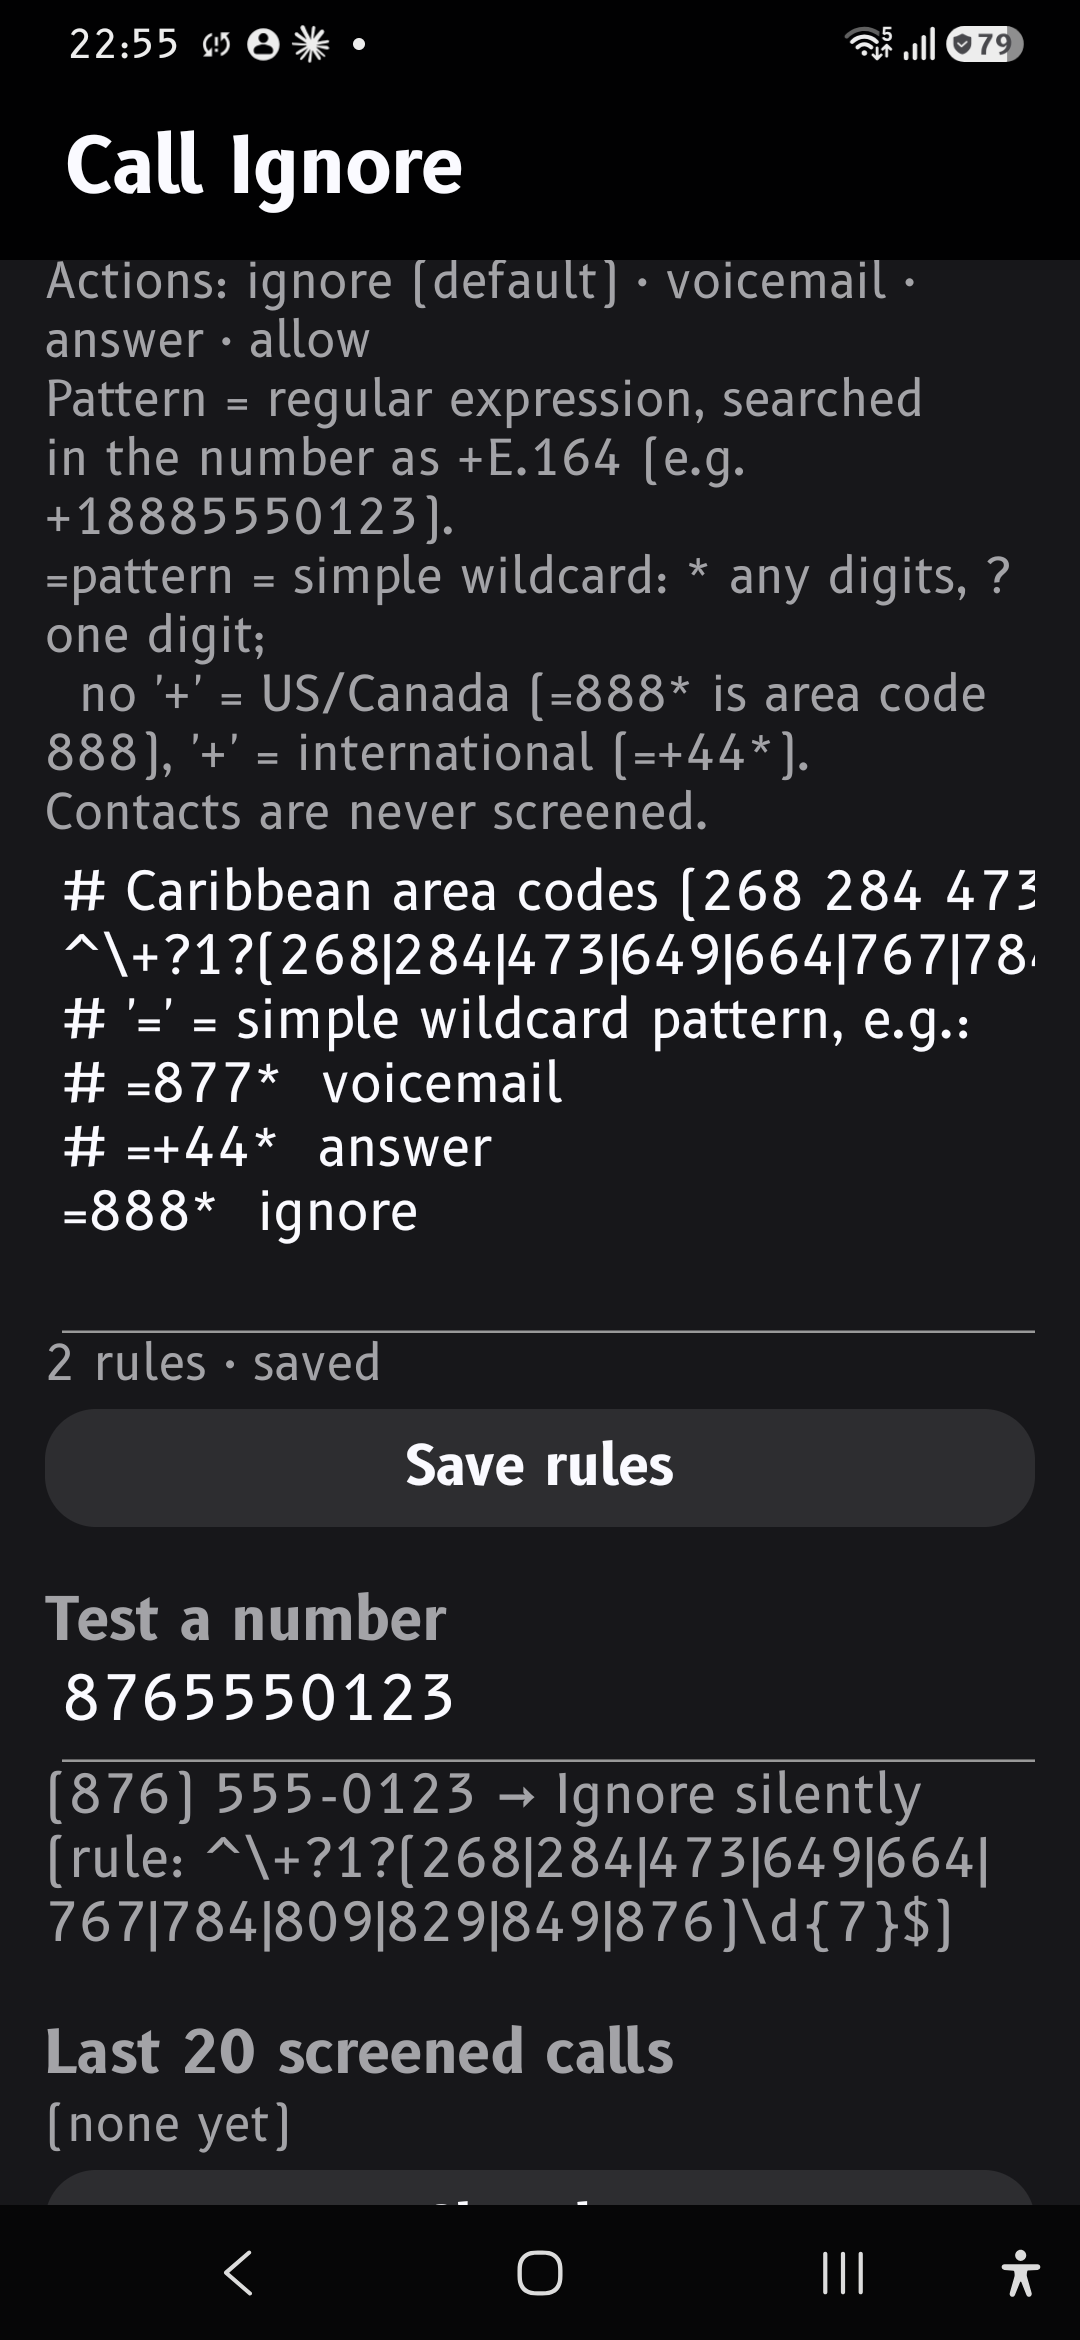
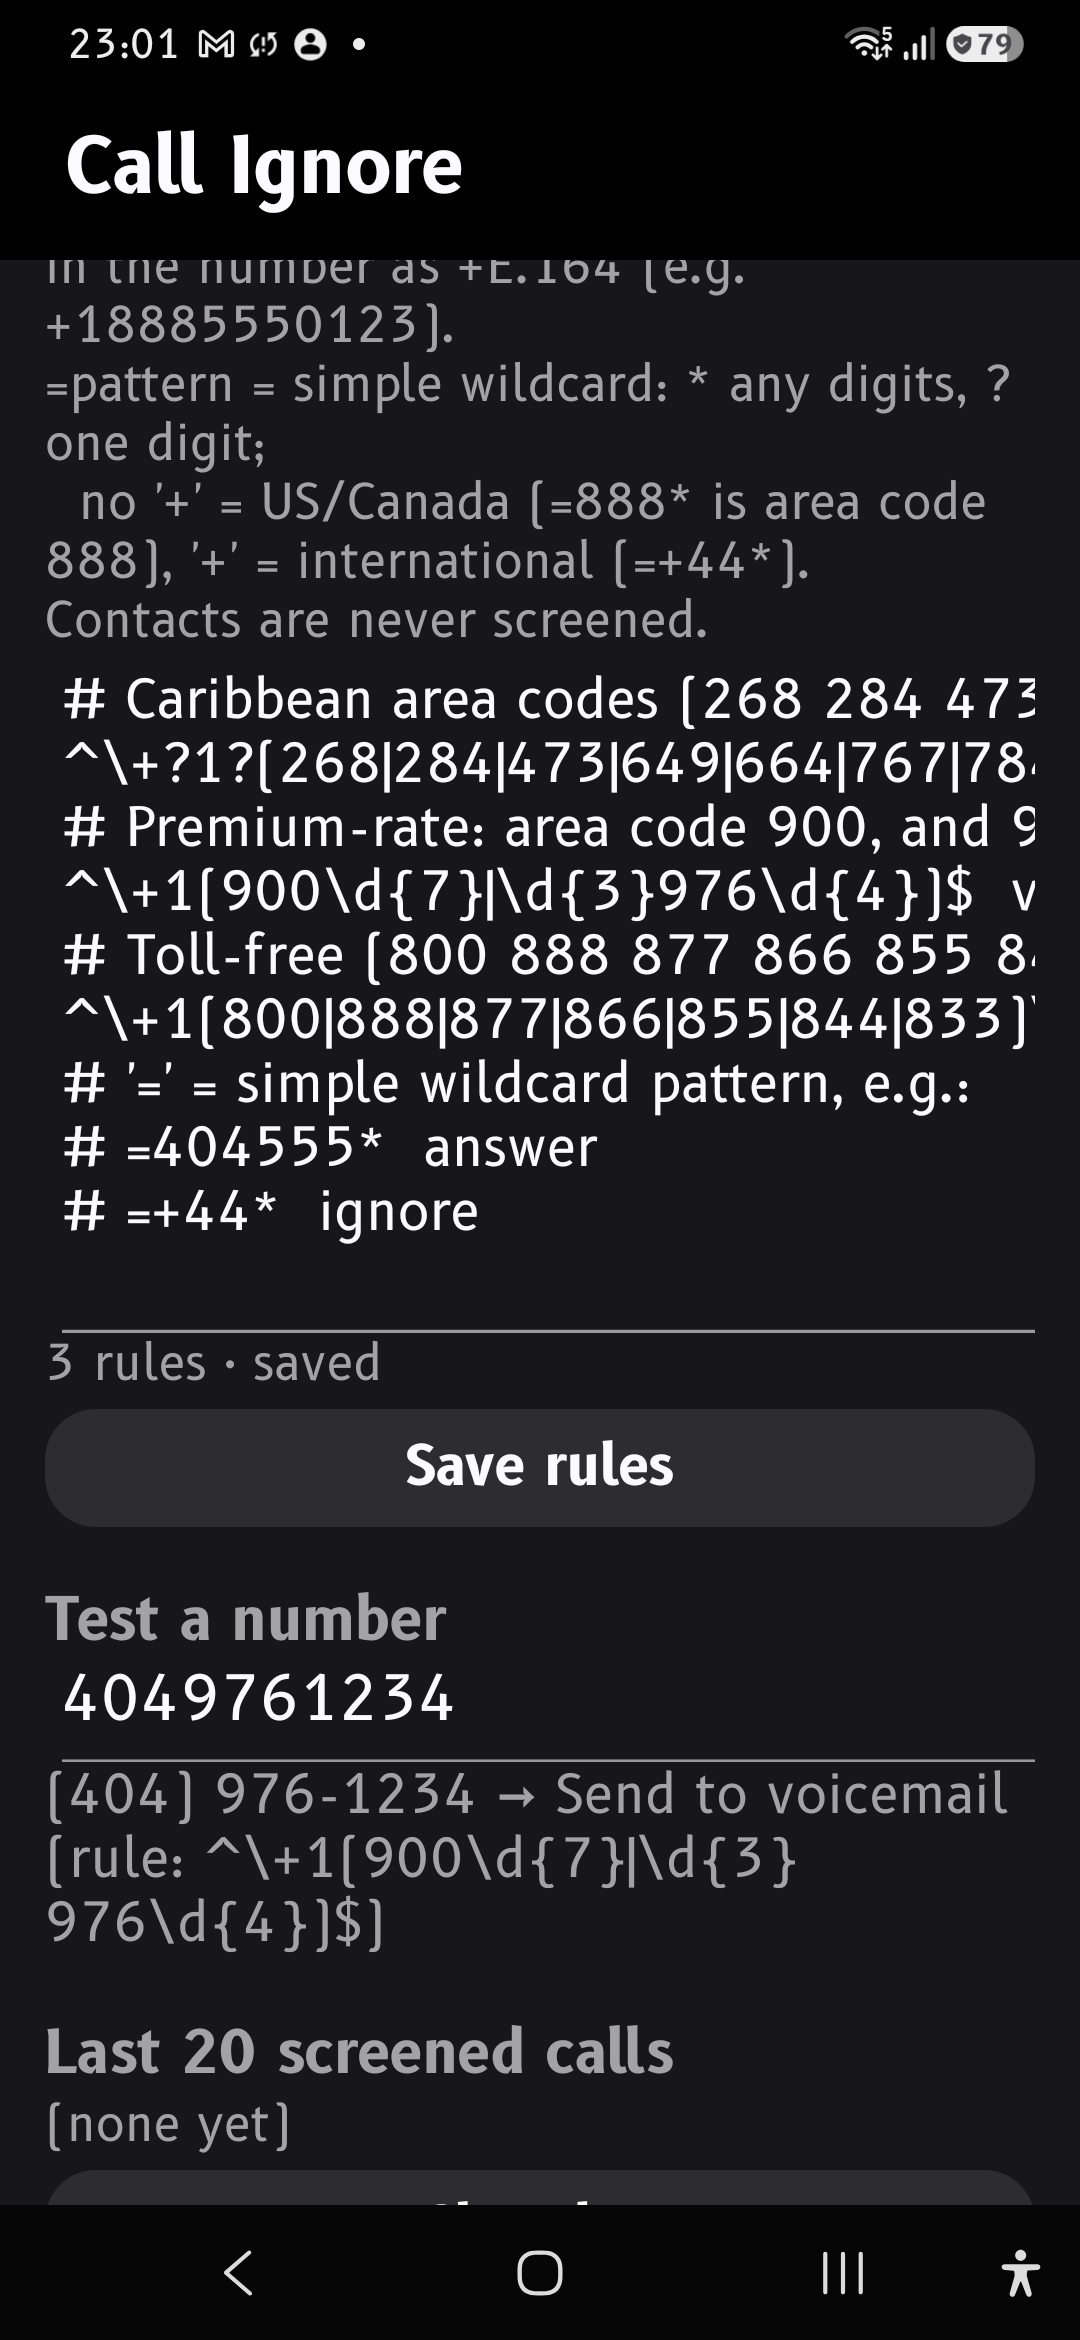
Call Ignore 1.3: preload premium-rate and toll-free voicemail rules
Default rules now send area code 900, 976 exchanges in any area code,
and NANP toll-free numbers (800 888 877 866 855 844 833) straight to
voicemail. The old "=888* ignore" example is dropped, since it would
have pre-empted the toll-free rule.

A saved rule list that still equals an earlier default is upgraded to
the current defaults; edited lists are left alone.

Claude-Session: https://claude.ai/code/session_01PJNMLNsMDP1d1zzKHf4YGs

diff --git a/app/src/main/java/io/github/rowsail/callignore/Store.java b/app/src/main/java/io/github/rowsail/callignore/Store.java
@@ -17,10 +17,13 @@ final class Store {
     private static final String DEFAULT_RULES =
             "# Caribbean area codes (268 284 473 649 664 767 784 809 829 849 876): \"one-ring\" call-back scams\n"
             + "^\\+?1?(268|284|473|649|664|767|784|809|829|849|876)\\d{7}$  ignore\n"
+            + "# Premium-rate: area code 900, and 976 local exchanges in any area code\n"
+            + "^\\+1(900\\d{7}|\\d{3}976\\d{4})$  voicemail\n"
+            + "# Toll-free (800 888 877 866 855 844 833)\n"
+            + "^\\+1(800|888|877|866|855|844|833)\\d{7}$  voicemail\n"
             + "# '=' = simple wildcard pattern, e.g.:\n"
-            + "# =877*  voicemail\n"
-            + "# =+44*  answer\n"
-            + "=888*  ignore\n";
+            + "# =404555*  answer\n"
+            + "# =+44*  ignore\n";
 
     /**
      * Rule syntax version. 1: wildcard patterns bare (and briefly /regex/ in slashes);
@@ -36,6 +39,16 @@ final class Store {
                     + "# 404555????     = ? is one digit\n"
                     + "888*  ignore\n",
     };
+    /** Earlier format-2 default lists; a saved list still equal to one was never edited, so it's upgraded. */
+    private static final String[] V2_DEFAULTS = {
+            // 1.2
+            "# Caribbean area codes (268 284 473 649 664 767 784 809 829 849 876): \"one-ring\" call-back scams\n"
+                    + "^\\+?1?(268|284|473|649|664|767|784|809|829|849|876)\\d{7}$  ignore\n"
+                    + "# '=' = simple wildcard pattern, e.g.:\n"
+                    + "# =877*  voicemail\n"
+                    + "# =+44*  answer\n"
+                    + "=888*  ignore\n",
+    };
 
     private final SharedPreferences p;
 
@@ -49,10 +62,14 @@ final class Store {
     String rules() {
         String saved = p.getString("rules", null);
         if (saved == null) return DEFAULT_RULES;
-        if (p.getInt("rulesFormat", 1) < RULES_FORMAT) {
-            saved = migrateV1(saved);
-            setRules(saved);
-        }
+        String upgraded = p.getInt("rulesFormat", 1) < RULES_FORMAT ? migrateV1(saved) : upgradeDefaults(saved);
+        if (!upgraded.equals(saved)) setRules(upgraded);
+        return upgraded;
+    }
+
+    /** An untouched earlier default list becomes the current one; anything the user edited is kept as is. */
+    static String upgradeDefaults(String saved) {
+        for (String d : V2_DEFAULTS) if (d.equals(saved)) return DEFAULT_RULES;
         return saved;
     }
 

diff --git a/app/src/test/java/io/github/rowsail/callignore/RulesTest.java b/app/src/test/java/io/github/rowsail/callignore/RulesTest.java
@@ -138,8 +138,39 @@ public class RulesTest {
         assertEquals(d.errors.toString(), 0, d.errors.size());
         assertEquals(d.warnings.toString(), 0, d.warnings.size());
         expect(d, "+18765550123", Rules.Action.IGNORE, CARIBBEAN);
-        expect(d, "8885550123", Rules.Action.IGNORE, "=888*");
         expect(d, "+14045550123", Rules.Action.ALLOW, null);
+    }
+
+    private static final String PREMIUM = "^\\+1(900\\d{7}|\\d{3}976\\d{4})$";
+    private static final String TOLL_FREE = "^\\+1(800|888|877|866|855|844|833)\\d{7}$";
+
+    @Test public void defaultPremiumRateToVoicemail() {
+        Rules d = Rules.parse(defaultRules());
+        expect(d, "9005550123", Rules.Action.VOICEMAIL, PREMIUM);            // area code 900
+        expect(d, "+1 404 976 1234", Rules.Action.VOICEMAIL, PREMIUM);       // 976 exchange, any area code
+        expect(d, "(212) 976-0000", Rules.Action.VOICEMAIL, PREMIUM);
+        expect(d, "+14045559760", Rules.Action.ALLOW, null);                 // 976 elsewhere in the number
+        expect(d, "+19765550123", Rules.Action.ALLOW, null);                 // 976 as an area code isn't premium
+    }
+
+    @Test public void defaultTollFreeToVoicemail() {
+        Rules d = Rules.parse(defaultRules());
+        for (String code : new String[]{"800", "888", "877", "866", "855", "844", "833"})
+            expect(d, code + "5550123", Rules.Action.VOICEMAIL, TOLL_FREE);
+        expect(d, "+18225550123", Rules.Action.ALLOW, null);                 // 822 is reserved, not in the list
+        expect(d, "+448005550123", Rules.Action.ALLOW, null);                // UK 0800 isn't NANP toll-free
+    }
+
+    @Test public void untouchedEarlierDefaultsAreUpgraded() {
+        String v12 = "# Caribbean area codes (268 284 473 649 664 767 784 809 829 849 876): \"one-ring\" call-back scams\n"
+                + "^\\+?1?(268|284|473|649|664|767|784|809|829|849|876)\\d{7}$  ignore\n"
+                + "# '=' = simple wildcard pattern, e.g.:\n"
+                + "# =877*  voicemail\n"
+                + "# =+44*  answer\n"
+                + "=888*  ignore\n";
+        assertEquals(defaultRules(), Store.upgradeDefaults(v12));
+        assertEquals(v12 + "=404*\n", Store.upgradeDefaults(v12 + "=404*\n"));  // edited: left alone
+        assertEquals(defaultRules(), Store.upgradeDefaults(defaultRules()));
     }
 
     @Test public void migrationFromFormat1() {

diff --git a/MANUAL.md b/MANUAL.md
@@ -1,6 +1,6 @@
 # Call Ignore — Technical Manual
 
-Version 1.2 (versionCode 3) · package `io.github.rowsail.callignore` · Android 10 (API 29) and later, built against API 36
+Version 1.3 (versionCode 4) · package `io.github.rowsail.callignore` · Android 10 (API 29) and later, built against API 36
 
 Call Ignore screens incoming phone calls against a user-editable list of number patterns. For each match it can let the call ring, ignore it silently, send it to voicemail, or answer it and hang up immediately. It is free software (GPL-3.0-or-later), built with Gradle, and it has no network access. Source: https://github.com/rowsail/CallIgnore
 
@@ -89,13 +89,22 @@ A new install starts with:
 ```
 # Caribbean area codes (268 284 473 649 664 767 784 809 829 849 876): "one-ring" call-back scams
 ^\+?1?(268|284|473|649|664|767|784|809|829|849|876)\d{7}$  ignore
+# Premium-rate: area code 900, and 976 local exchanges in any area code
+^\+1(900\d{7}|\d{3}976\d{4})$  voicemail
+# Toll-free (800 888 877 866 855 844 833)
+^\+1(800|888|877|866|855|844|833)\d{7}$  voicemail
 # '=' = simple wildcard pattern, e.g.:
-# =877*  voicemail
-# =+44*  answer
-=888*  ignore
+# =404555*  answer
+# =+44*  ignore
 ```
 
-The first rule ignores calls from Caribbean NANP area codes, the usual source of "one-ring" scams that try to get you to call back an expensive number. See the note on optional country codes below.
+| Rule | Catches | Action | Notes |
+|---|---|---|---|
+| Caribbean | NANP area codes 268, 284, 473, 649, 664, 767, 784, 809, 829, 849, 876 | ignore | The usual source of "one-ring" scams that try to get you to call back an expensive number. See the note on optional country codes below. |
+| Premium-rate | Area code **900**, and exchange **976** in *any* area code (`(404) 976-1234`) | voicemail | 976 was the old local pay-per-call exchange, not an area code. Some areas have since reused 976 as an ordinary exchange, so a few normal local numbers will also go to voicemail. Add an `allow` rule above it for any you need. |
+| Toll-free | NANP toll-free codes 800, 888, 877, 866, 855, 844, 833 | voicemail | Businesses, including banks, pharmacies and delivery firms, often call from toll-free numbers. Voicemail lets them leave a message. Put an `allow` rule above this one for any you want to ring through, e.g. `=8005551234 allow`. |
+
+When rules are upgraded, an earlier default list that was **never edited** is replaced by the current one. Lists you've changed are left exactly as they are.
 
 ### Regular-expression rules
 
@@ -173,7 +182,7 @@ Regex rules see `+` followed by the result. NANP wildcard rules see the last 10 
 ### Upgrading from 1.1
 
 Version 1.1 had only wildcard rules, written without `=`. On the first start after upgrading, saved rules are converted automatically (rule format 2):
-- **Unchanged defaults:** if the saved rules are exactly the old default list, they're replaced by the new preloaded list.
+- **Unchanged defaults:** if the saved rules are exactly the old default list, they're replaced by the new preloaded list. The same happens on later upgrades: an untouched 1.2 default list becomes the 1.3 one.
 - **Your own rules:** every rule line gets an `=` prefix, so it keeps its meaning. Comments and blank lines are kept.
 
 ---
@@ -340,13 +349,13 @@ Build and `adb install -r` again. The role, permissions and settings survive upd
 
 ### Automated (off-device)
 
-`app/src/test/java/io/github/rowsail/callignore/RulesTest.java` (18 JUnit 4 tests) covers:
+`app/src/test/java/io/github/rowsail/callignore/RulesTest.java` (21 JUnit 4 tests) covers:
 - **Wildcards:** NANP numbers in several formats, leading-`1` patterns, separators, international `+` patterns, `011` dialling, suffix wildcards, whole-number matching, and `+888…` not being treated as NANP
 - **Regexes:** the preloaded Caribbean rule (including its optional-`1` pitfall) and the strict alternative; find semantics; `#`, `/` and spaces inside a regex
 - **Ordering:** first match wins across both kinds of rule
 - **Errors and warnings:** invalid wildcards and regexes, wildcard-looking regexes, and the `=` hint
 - **Comments:** comment parsing
-- **Defaults and migration:** the preloaded rules parse with no errors or warnings, and the 1.1 → 1.2 rule migration works
+- **Defaults and migration:** the preloaded rules parse with no errors or warnings; 900 and 976-exchange numbers and all seven toll-free codes go to voicemail, and near misses don't; the 1.1 → 1.2 migration works; untouched earlier default lists are upgraded and edited ones aren't
 - **Display:** number formatting
 
 Run them with `./gradlew test`. The report is written to `app/build/reports/tests/`.
@@ -374,7 +383,7 @@ adb logcat -s CallIgnore
 | `endCall -> true` | The connected call was hung up |
 | `gave up: call never rang` / `never connected` | The answer loop timed out after 5 s |
 
-**Verification status (version 1.2):** the matching rules pass all automated tests. The app installs, holds the role, has both permissions and runs its screen without errors. The call-handling paths above haven't yet been tried with a real incoming call. `acceptRingingCall()` and `endCall()` are deprecated (since API 29), so the `answer` test (step 3) is the one most worth running on each new Android version.
+**Verification status (version 1.3):** the matching rules pass all automated tests. The app installs, holds the role, has both permissions and runs its screen without errors. The call-handling paths above haven't yet been tried with a real incoming call. `acceptRingingCall()` and `endCall()` are deprecated (since API 29), so the `answer` test (step 3) is the one most worth running on each new Android version.
 
 ---
 

diff --git a/README.md b/README.md
@@ -12,12 +12,14 @@ An Android app that screens incoming calls against number patterns you write you
 Each rule is a **regular expression**, tested against the number in `+E.164` form, or, with a leading `=`, a simple **wildcard** pattern:
 
 ```
+=8005551234 allow    # exceptions go first: the first matching rule wins
 # Caribbean area codes: "one-ring" call-back scams (preloaded)
 ^\+?1?(268|284|473|649|664|767|784|809|829|849|876)\d{7}$  ignore
-=4045551234 allow    # exceptions go first: the first matching rule wins
-=888*                # every US/Canada number in area code 888
-=877*      voicemail
-^\+44      answer    # every UK number
+# Premium-rate 900 and 976 numbers, and toll-free numbers (preloaded)
+^\+1(900\d{7}|\d{3}976\d{4})$  voicemail
+^\+1(800|888|877|866|855|844|833)\d{7}$  voicemail
+=404555*   answer    # wildcard: every number starting (404) 555
+^\+44      ignore    # every UK number
 ```
 
 Wildcards: `*` matches any run of digits and `?` exactly one; without `+` they're US/Canada numbers, with `+` international. A wildcard-looking line without its `=` gets a warning. Hidden and withheld numbers have their own setting, and the last 20 screened calls are logged on the phone.
